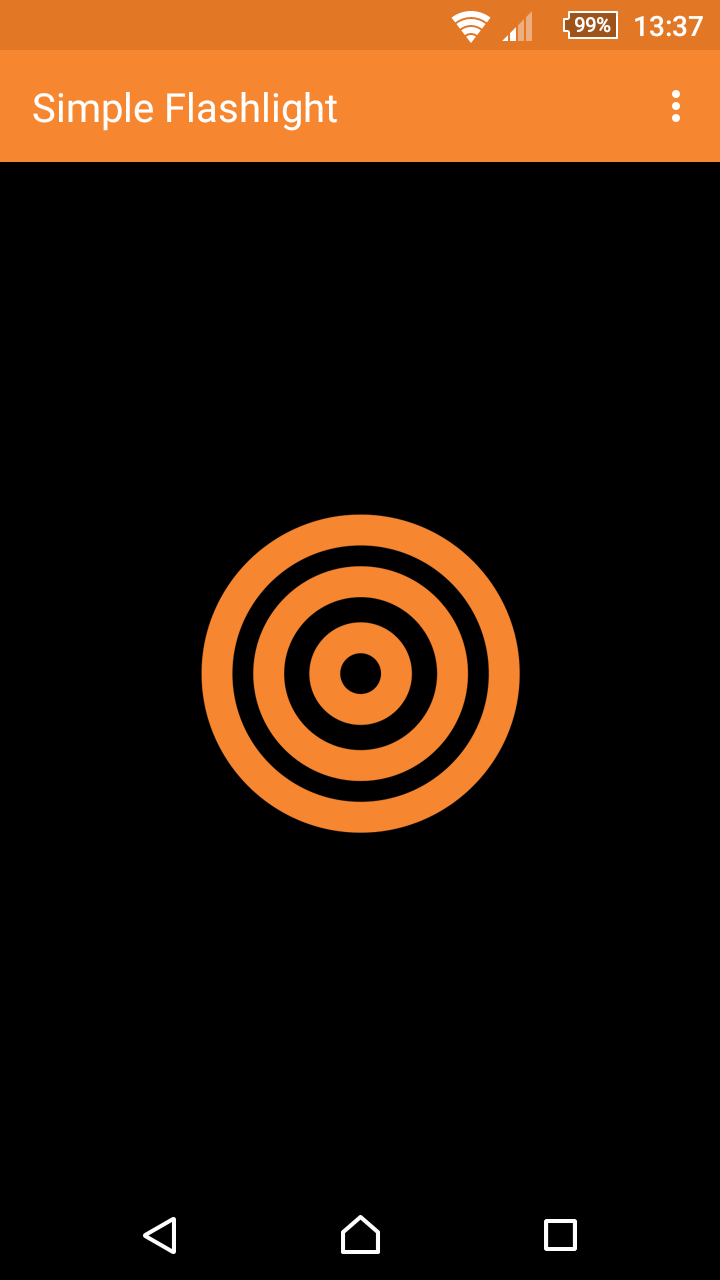
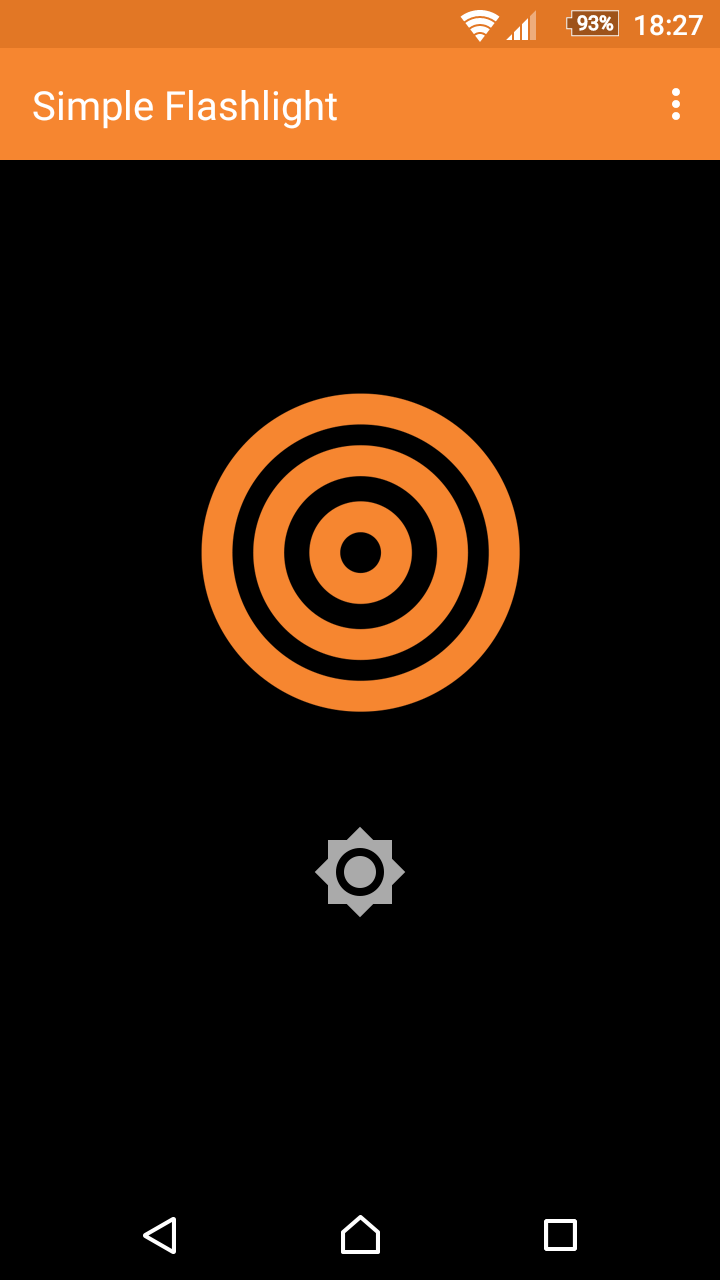
updating the screenshots and readme

diff --git a/README.md b/README.md
@@ -1,9 +1,7 @@
 # SimpleFlashlight
 <img alt="Logo" src="app/src/main/res/mipmap-xxxhdpi/launcher.png" width="80">
 
-I'm flashlight. Simple flashlight. With a widget.
-
-A flashlight app with black background, so it doesn't knock you out when launched in the dark. If it's turned on via the app, it will prevent the device from falling asleep, so it can be used for longer operations too. It also contains a simple 1x1 widget you can place on your homescreen.
+A flashlight. Simple flashlight. Two buttons. Flashlight and Bright display. No ads. No unnecessary permissions. No advanced features. If you need them, don't install the app. If turned on via the app (not widget), it will prevent the phone from falling asleep. Contains a 1x1 widget.
 
 <a href='https://play.google.com/store/apps/details?id=com.simplemobiletools.flashlight'><img alt='Get it on Google Play' src='https://play.google.com/intl/en_us/badges/images/generic/en_badge_web_generic.png' height=60/></a>
 <a href="https://f-droid.org/app/com.simplemobiletools.flashlight"><img src="https://f-droid.org/badge/get-it-on.png" alt="Get it on F-Droid" height="60"></a>
